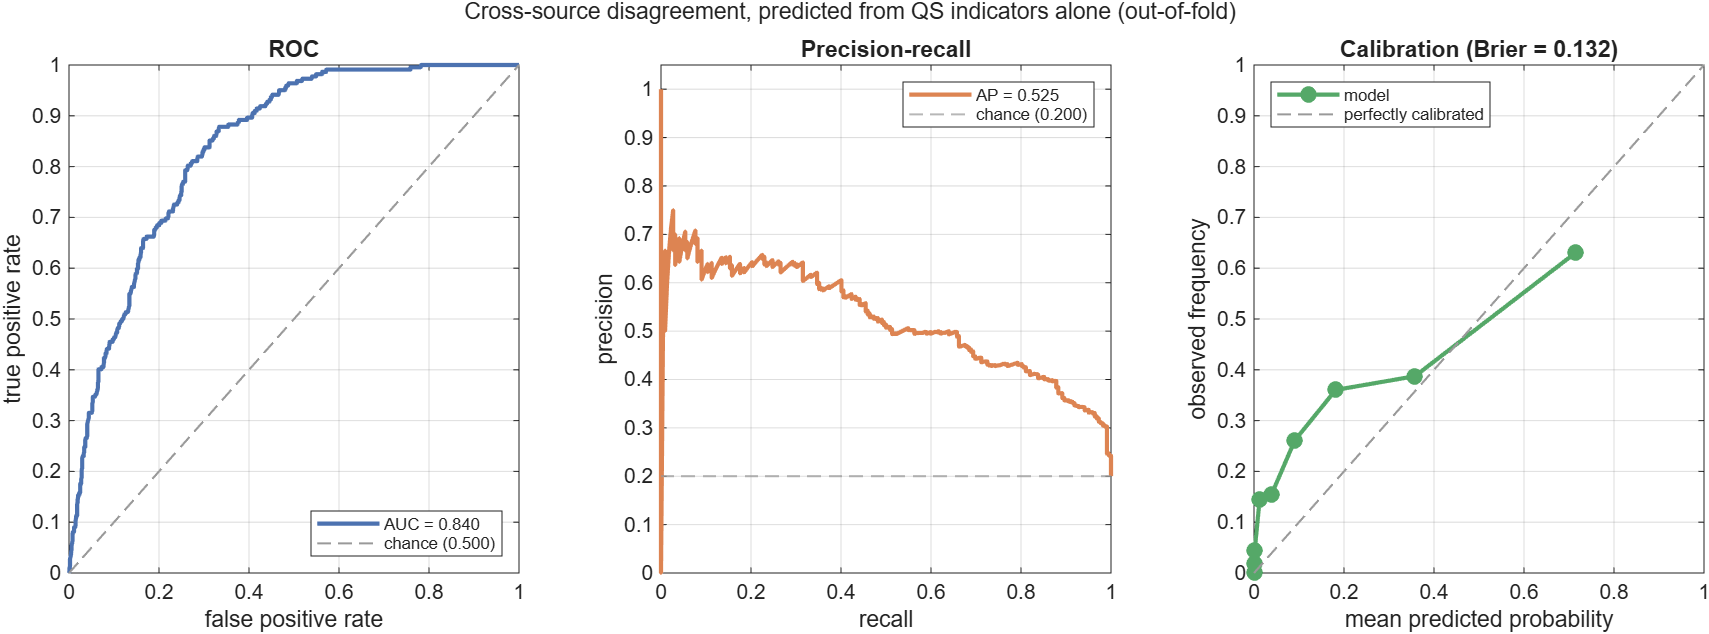
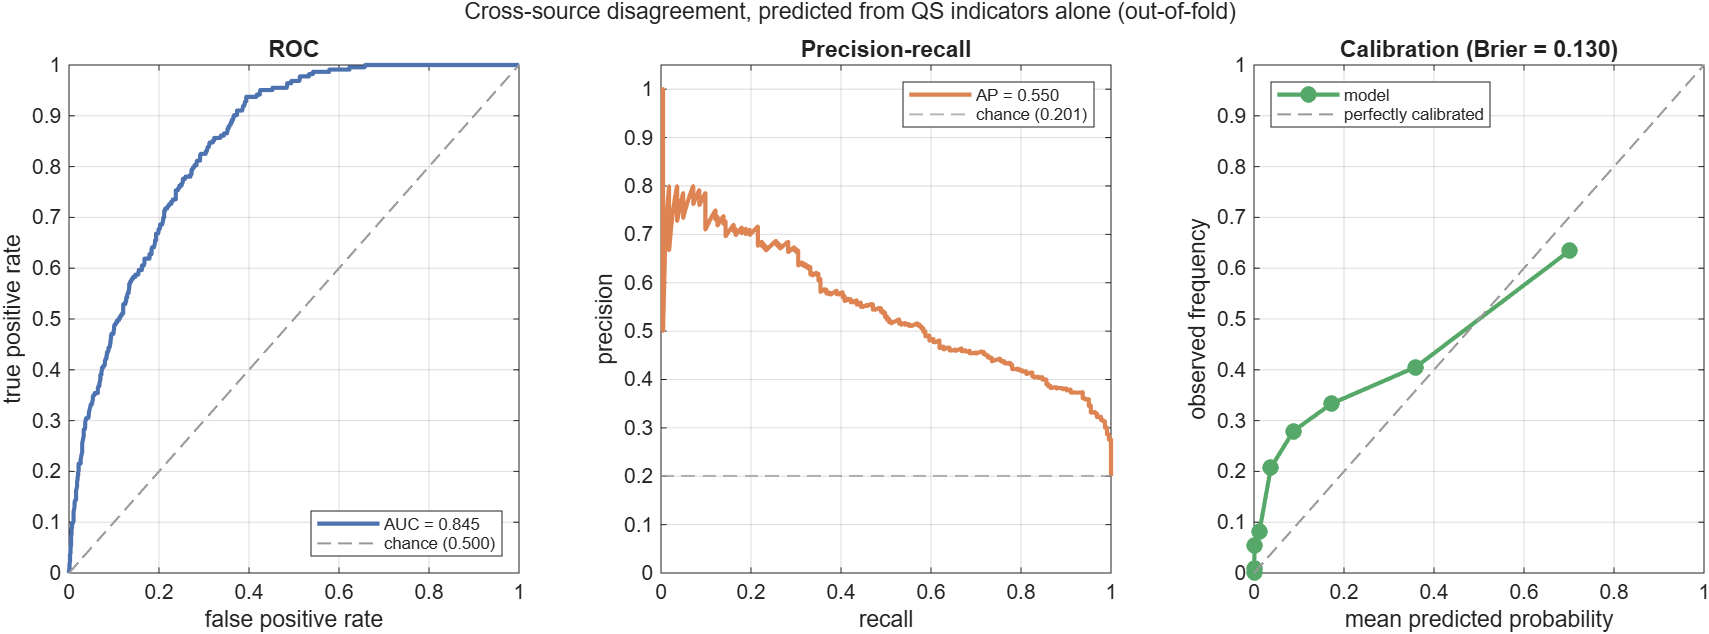
fix(ml): regenerate the Phase 3 artifacts that the 2026-09-21 refresh made stale
check_matlab_parity failed at HEAD: the committed MATLAB cross_source artifact said
matched = 1,109 and Python produced 1,112. It was not a disagreement between the two
implementations. MATLAB, re-run, also produces 1,112. The weekly refresh of 2026-09-21
(794274e: a new THE crawl and a re-exported pairing) moved the dataset, 1,109 -> 1,112
matched and 222 -> 223 positives, and nothing was regenerated. With the pairing and THE
file as of the last retrain (2620a11) the count is 1,109, which is how this was pinned down.

The metrics gate in ml-tests.yml would have failed the same way: its invariants
dataset.matched and dataset.positives changed, and it says the comparison is meaningless
until the data movement is explained. This is the explanation, and the recommit it asks for.

Regenerated: cross_source_matlab/dataset_summary.csv and the diagnostics figure
(build_cross_source_data.m, train_disagreement_classifier.m, plot_disagreement_diagnostics.m),
metrics/disagreement.json and eda/disagreement_diagnostics.png (train_disagreement). The
untracked predicted_disagreements.csv was regenerated too; its batch is the 391 ranked QS
universities the join did not match.

What moved: QS-only boosted ROC-AUC 0.8384 -> 0.8437, PR-AUC 0.5201 -> 0.5324; THE favoured
178 -> 179. The sensitivity at q=0.90, which the model card called flat, is now 0.8166 (was
0.8409), on 112 positives. The largest gap in the old dataset, 0.738, was a false pair:
[…]

diff --git a/crawlernest/crawlernest-ml/ranking_ml/serving/predict_disagreement.py b/crawlernest/crawlernest-ml/ranking_ml/serving/predict_disagreement.py
@@ -7,7 +7,7 @@
     # compute everything, write nothing
     ... -m ranking_ml.serving.predict_disagreement --dry-run
 
-Fits the one-sided classifier on the 1,109 universities QS and THE both rank, then
+Fits the one-sided classifier on the 1,112 universities QS and THE both rank, then
 scores **every** university QS ranks -- including the ones THE has never covered.
 That asymmetry is the point of the model: the probability is useful precisely
 where there is no THE verdict to compare against, so a contested institution can
@@ -20,7 +20,7 @@ Shared: predictions land in their own table, never in
 consumer can surface a probability without the means to say how far outside the
 training data it sits.
 
-Different: the training set is the 1,109-row overlap rather than a slice of the
+Different: the training set is the 1,112-row overlap rather than a slice of the
 ranking table, so it is worth checking where the other 395 universities sit
 relative to it. They sit inside it. 97.1% of all 1,504 rows fall within the
 training support, against 55.1% for the overall-score model, because the overlap

diff --git a/crawlernest/crawlernest-ml/ranking_ml/features/cross_source.py b/crawlernest/crawlernest-ml/ranking_ml/features/cross_source.py
@@ -61,7 +61,7 @@ def load_pairing(path: Path | str | None = None) -> dict[str, str]:
     """Which QS university is which THE university, as the warehouse decided.
 
     On the QS 2026 edition, joining on a normalised name recovers 842 of the
-    1,504 QS universities. The warehouse pairing reaches 1,109 for the same two
+    1,504 QS universities. The warehouse pairing reaches 1,112 for the same two
     snapshots, because its entity resolver is seeded with reviewed aliases --
     ``Universidade de São Paulo`` is ``University of São Paulo``, ``Osaka
     University`` is ``The University of Osaka`` -- and because a human went

diff --git a/crawlernest/crawlernest-ml/matlab/build_cross_source_data.m b/crawlernest/crawlernest-ml/matlab/build_cross_source_data.m
@@ -21,7 +21,7 @@ function [X, y, info] = build_cross_source_data(options)
 %
 %   On the QS 2026 edition, matching on a normalised name (letters only,
 %   lowercased) recovers 842 of the 1,504 QS universities. The warehouse
-%   pairing reaches 1,109 for the same two
+%   pairing reaches 1,112 for the same two
 %   snapshots, because its entity resolver is seeded with reviewed aliases and
 %   because a human went through the ambiguous cases. That decision is committed
 %   to qs_the_pairing_2026.json and is read here rather than re-derived, so

diff --git a/crawlernest/crawlernest-ml/tests/test_pairing_file.py b/crawlernest/crawlernest-ml/tests/test_pairing_file.py
@@ -46,7 +46,7 @@ def test_the_pairing_file_is_present_and_not_empty(pairing):
 
 
 #: How many of the snapshot's universities the pairing has to place. The export
-#: currently reaches 1,109 of 1,504. A file exported against a different QS
+#: currently reaches 1,112 of 1,504. A file exported against a different QS
 #: edition would land near zero here, which is the failure this guards.
 MIN_SNAPSHOT_COVERAGE = 1000
 

diff --git a/crawlernest/crawlernest-ml/model_cards/disagreement.md b/crawlernest/crawlernest-ml/model_cards/disagreement.md
@@ -35,7 +35,7 @@ still fitted and reported as a ceiling, so the distance between them is visible.
 |---|---|
 | QS population | 1,504 |
 | THE population | 2,191 |
-| Matched | **1,109** |
+| Matched | **1,112** |
 | Match rule | the warehouse's reviewed pairing, falling back to exact normalised name |
 | Features | 9 QS indicators |
 | Missing | International Faculty Ratio 44, International Student Ratio 19, Sustainability 2 |
@@ -47,7 +47,7 @@ University of British Columbia with University of Northern British Columbia.
 The pairing is read from `crawlernest-kb/databases/qs_the_pairing_2026.json`,
 exported from the warehouse after its entity resolver was seeded with reviewed
 aliases and its ambiguous cases were resolved by hand. On the 2026 edition it
-places all 1,109 matched universities; exact match on a normalised name alone
+places all 1,112 matched universities; exact match on a normalised name alone
 would reach 842. `test_pairing_matches_warehouse` confirms the file agrees with
 the warehouse's THE 2026 records, and `export_qs_the_pairing.py` reports no
 difference.
@@ -64,12 +64,12 @@ overlap".
 ## Label
 
 `disagreement = |QS percentile − THE percentile| > threshold`, where the
-threshold is the 80th percentile of the observed gap — 0.2568, giving 222
-positives (20.0%). Stating the positive rate as the design choice, rather than
+threshold is the 80th percentile of the observed gap — 0.2559, giving 223
+positives (20.1%). Stating the positive rate as the design choice, rather than
 picking a round cutoff and discovering the rate afterwards, is what makes the
 sensitivity analysis below meaningful.
 
-Gap distribution over the 1,109: median 0.112, 75th percentile 0.223, max 0.738.
+Gap distribution over the 1,112: median 0.112, 75th percentile 0.222, max 0.673.
 
 ## Results
 
@@ -77,44 +77,48 @@ Out-of-fold, 5-fold stratified, seed 0:
 
 | Feature set | Model | ROC-AUC | PR-AUC | Brier |
 |---|---|---:|---:|---:|
-| **QS only** | **gradient boosting** | **0.8384** | **0.5201** | **0.1256** |
-| QS only | logistic regression | 0.7460 | 0.3547 | 0.1424 |
-| both sources *(ceiling)* | gradient boosting | 0.9258 | 0.7620 | 0.0869 |
-| both sources *(ceiling)* | logistic regression | 0.8150 | 0.5845 | 0.1195 |
-| chance | — | 0.5000 | 0.2002 | — |
+| **QS only** | **gradient boosting** | **0.8437** | **0.5324** | **0.1252** |
+| QS only | logistic regression | 0.7554 | 0.3607 | 0.1413 |
+| both sources *(ceiling)* | gradient boosting | 0.9252 | 0.7794 | 0.0841 |
+| both sources *(ceiling)* | logistic regression | 0.8215 | 0.5853 | 0.1186 |
+| chance | — | 0.5000 | 0.2005 | — |
 
 ![Diagnostics](../artifacts/eda/disagreement_diagnostics.png)
 
 Reading these:
 
-- **PR-AUC 0.520 against a 0.200 base rate** is the honest headline. ROC-AUC
-  flatters imbalanced problems; the 2.6× lift in average precision is the part
+- **PR-AUC 0.532 against a 0.201 base rate** is the honest headline. ROC-AUC
+  flatters imbalanced problems; the 2.7× lift in average precision is the part
   that means something operationally.
-- **QS alone reaches 0.838 against a two-sided ceiling of 0.926.** Most of what
+- **QS alone reaches 0.844 against a two-sided ceiling of 0.925.** Most of what
   is predictable about cross-source disagreement is already visible in QS's own
-  numbers. That the ceiling is 0.926 rather than ~0.99 is itself informative:
+  numbers. That the ceiling is 0.925 rather than ~0.99 is itself informative:
   THE's published ranks are heavily tied at the tail, which caps how
   deterministic the label can be.
-- **Gradient boosting beats logistic regression by a wide margin** (0.838 vs
-  0.746). Worth contrasting with the overall-score model, where trees lost badly
+- **Gradient boosting beats logistic regression by a wide margin** (0.844 vs
+  0.755). Worth contrasting with the overall-score model, where trees lost badly
   to a linear fit. There the relationship was exactly linear; here it is not.
-- **Calibration is good in the low and middle range and over-confident at the
-  top**: the highest-probability bin predicts 0.72 where the observed frequency
-  is 0.59. Any threshold placed in that region should account for it.
+- **Calibration is close in the lowest bins, under-confident around a predicted
+  0.3 and over-confident at the top**: the bin near 0.29 has an observed
+  frequency of 0.46, and the highest-probability bin predicts 0.73 where the
+  observed frequency is 0.58. Any threshold placed in those regions should
+  account for it.
 
 ### Threshold sensitivity
 
 | Gap threshold | Positive rate | ROC-AUC | PR-AUC |
 |---:|---:|---:|---:|
-| 0.1928 (q=0.70) | 30.0% | 0.8363 | 0.6482 |
-| 0.2568 (q=0.80) | 20.0% | 0.8384 | 0.5201 |
-| 0.3321 (q=0.90) | 10.0% | 0.8409 | 0.3608 |
+| 0.1919 (q=0.70) | 30.0% | 0.8390 | 0.6609 |
+| 0.2559 (q=0.80) | 20.1% | 0.8437 | 0.5324 |
+| 0.3303 (q=0.90) | 10.1% | 0.8166 | 0.3220 |
 
-The result survives the choice of cutoff. ROC-AUC is flat across the three
-(0.836–0.841); PR-AUC falls with the base rate, as it must, while its lift over
-chance grows from 2.2× to 3.6×. On the 2026 edition rarer, more extreme
-disagreements are not harder to rank — an earlier snapshot suggested they were,
-and that finding did not survive the change of edition.
+The result survives the choice of cutoff between the 70th and 80th percentile
+(ROC-AUC 0.839 and 0.844) and weakens at the 90th (0.817), where only 112 pairs
+are positive. PR-AUC falls with the base rate, as it must, while its lift over
+chance grows from 2.2× to 3.2×. Whether the drop at q=0.90 is the model ranking
+the most extreme disagreements worse or fold-to-fold noise on 112 positives was
+not tested. The previous committed numbers had it flat (0.836–0.841); the 2026-09-21
+refresh is what moved it, which is a reminder of how little 112 positives pin down.
 
 ### Against the previous committed numbers
 
@@ -125,9 +129,17 @@ The metrics file committed before this one (ROC-AUC 0.8662, PR-AUC 0.5922 on
 lower numbers above describe a different edition, not a regression in the code:
 the model, features and pairing rule are unchanged.
 
+The numbers in this card were then recommitted on 2026-10-03 after the weekly
+refresh of 2026-09-21 (a new THE crawl and a re-exported pairing) moved `matched`
+1,109 → 1,112 and `positives` 222 → 223 without anyone regenerating them; the gate's
+invariants and the MATLAB parity check had both been failing since. ROC-AUC for the
+QS-only boosted model moved 0.8384 → 0.8437. The largest gap in the old dataset,
+0.738, was a false pair (QS's Miami University in Ohio joined to THE's University of
+Miami through a merged canonical), which the entity split of 2026-10-03 removed.
+
 ### Asymmetry
 
-Among the 222 disagreeing pairs, **THE ranks the university higher in 178 cases
+Among the 223 disagreeing pairs, **THE ranks the university higher in 179 cases
 and QS in 44** — roughly 4 to 1. The two sources do not merely differ; they
 differ in a consistent direction, which is a finding about the sources rather
 than about the model.
@@ -135,7 +147,7 @@ than about the model.
 ## Known limitations
 
 - **Single edition.** Nothing here is temporal.
-- **Still an incomplete overlap.** 1,109 of a possible 1,504. The 395 absent
+- **Still an incomplete overlap.** 1,112 of a possible 1,504. The 392 absent
   universities are the ones THE does not rank, or whose pairing has not been
   reviewed, and the second group is plausibly also more likely to be treated
   differently by the two sources — so the sample may be biased toward easier

diff --git a/crawlernest/crawlernest-ml/README.md b/crawlernest/crawlernest-ml/README.md
@@ -211,7 +211,7 @@ be re-read whenever the snapshot changes.
 ## Phase 3 results — cross-source disagreement
 
 Full detail in the [model card](model_cards/disagreement.md). QS and THE both
-rank 1,109 of the same universities, and they frequently disagree about them.
+rank 1,112 of the same universities, and they frequently disagree about them.
 The pairing comes from the warehouse — entity resolution seeded with reviewed
 aliases, ambiguous cases settled by hand — rather than being re-derived here
 from a name key, which reaches 842. On the 830 both methods place, they pick the
@@ -227,27 +227,39 @@ institutions at QS ingest time, before THE data arrives.
 
 | Feature set | Model | ROC-AUC | PR-AUC |
 |---|---|---:|---:|
-| **QS only** | **gradient boosting** | **0.8384** | **0.5201** |
-| QS only | logistic regression | 0.7460 | 0.3547 |
-| both sources *(ceiling)* | gradient boosting | 0.9258 | 0.7620 |
-| chance | — | 0.5000 | 0.2002 |
+| **QS only** | **gradient boosting** | **0.8437** | **0.5324** |
+| QS only | logistic regression | 0.7554 | 0.3607 |
+| both sources *(ceiling)* | gradient boosting | 0.9252 | 0.7794 |
+| chance | — | 0.5000 | 0.2005 |
 
 ![Disagreement diagnostics](artifacts/eda/disagreement_diagnostics.png)
 
-PR-AUC 0.520 against a 0.200 base rate is the honest headline — a 2.6× lift,
-where ROC-AUC would flatter an imbalanced problem. QS alone reaches 0.838 of a
-two-sided ceiling of 0.926, so most of what is predictable is already in QS's own
+PR-AUC 0.532 against a 0.201 base rate is the honest headline — a 2.7× lift,
+where ROC-AUC would flatter an imbalanced problem. QS alone reaches 0.844 of a
+two-sided ceiling of 0.925, so most of what is predictable is already in QS's own
 numbers. Gradient boosting beats the linear model here by a wide margin, the
 opposite of the overall-score result, because this relationship genuinely is not
-linear. Calibration holds in the low and middle range and goes over-confident in
-the top bin (0.72 predicted against 0.59 observed).
+linear. Calibration is close in the lowest bins, under-confident around a predicted
+0.3 (0.46 observed) and over-confident in the top bin (0.73 predicted against 0.58
+observed).
 
 These are lower than the numbers committed before (ROC-AUC 0.8662, PR-AUC
 0.5922), which were trained on the 2027 table mislabelled as 2026. Same code,
 different edition; the metrics gate refused the comparison on its `matched` and
 `positives` invariants.
 
-Among disagreeing pairs, **THE ranks the university higher 178 times to QS's
+The committed files were stale a second time, which nothing flagged because the
+checks that would have flagged it were failing. The weekly refresh of 2026-09-21
+(`794274e`: a new THE crawl and a re-exported pairing) moved `matched` 1,109 →
+1,112 and `positives` 222 → 223, and neither the MATLAB artifacts nor these
+metrics were regenerated; both `check_matlab_parity` and the metrics gate's
+invariants had been red since. They were regenerated on 2026-10-03. ROC-AUC moved
+0.8384 → 0.8437. The largest gap in the old dataset, 0.738, was a false pair: QS's
+Miami University (Ohio, rank 1,265) joined to THE's University of Miami through
+the merged canonical that the entity split of 2026-10-03 separated. The largest
+gap now is 0.673.
+
+Among disagreeing pairs, **THE ranks the university higher 179 times to QS's
 44** — the sources do not merely differ, they differ in a consistent direction.
 
 ## Phase 3 results — LLM evaluation
@@ -546,8 +558,8 @@ PYTHONPATH=crawlernest/crawlernest-ml ./.venv/bin/python \
     --pg-user test --pg-password test --pg-database clawer
 ```
 
-It trains on the 1,109 universities QS and THE both rank, then scores **all 1,504
-QS universities** — including the 395 outside that overlap. That is where the
+It trains on the 1,112 universities QS and THE both rank, then scores **all 1,504
+QS universities** — including the 392 outside that overlap. That is where the
 probability is useful: a contested institution can be flagged at QS ingest time
 rather than after a second source arrives.
 
@@ -728,14 +740,16 @@ Two kinds of guard, because they fail differently:
 
 | Kind | Checked how | Examples |
 |---|---|---|
-| **Invariant** | exactly, and first | `rows_labelled` = 705, `matched` = 1,109, `positives` = 222 |
+| **Invariant** | exactly, and first | `rows_labelled` = 705, `matched` = 1,112, `positives` = 223 |
 | **Metric** | against a direction and tolerance | `linear_renorm` RMSE (±0.05), weight-recovery error (±0.0005), disagreement ROC-AUC (±0.02) |
 
 Invariants come first because they describe the *data*: if the training set
 stops being 705 rows, no metric comparison below it means anything. Replacing the
 mislabelled 2027 snapshot with the verified 2026 one tripped exactly these
 (`rows_labelled` 700 → 705, `matched` 1,104 → 1,109), and the metrics files were
-recommitted from the new edition rather than compared against the old one.
+recommitted from the new edition rather than compared against the old one. They
+tripped again on 2026-09-21 (`matched` 1,109 → 1,112, `positives` 222 → 223), but
+nobody saw it until 2026-10-03, when the files were recommitted the same way.
 
 Training is seeded and reproducible — a rerun on the same snapshot reproduces
 every guarded number exactly, so the tolerances exist for library drift rather
